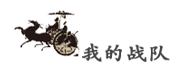
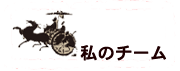
c

diff --git a/Warriors' Heaven/RegViewController.m b/Warriors' Heaven/RegViewController.m
@@ -86,17 +86,17 @@
 - (IBAction)onCreate:(id)sender {
     NSString * name = tName.text;
     if (name == NULL || name.length == 0){
-        lbError.text = @"Name cannot be empty";
+        lbError.text = @"名前は空にすることはできません";
         return;
     }
         
     name = [name stringByTrimmingCharactersInSet:[NSCharacterSet whitespaceAndNewlineCharacterSet]];
     if ( name.length == 0){
-        lbError.text = @"Name cannot be empty";
+        lbError.text = @"名前は空にすることはできません";
         return;
     }
     if (name.length > 10){
-        lbError.text = @"Name is too long";
+        lbError.text = @"名前が長すぎます";
         return;
     }
     NSString * tc = lbTeamCode.text;
@@ -108,7 +108,7 @@
     
     
     if (currentSelectedSex <0){
-        lbError.text = @"Please choose your character.";
+        lbError.text = @"あなたのキャラクターを選択してください";
         return;
     }
    
